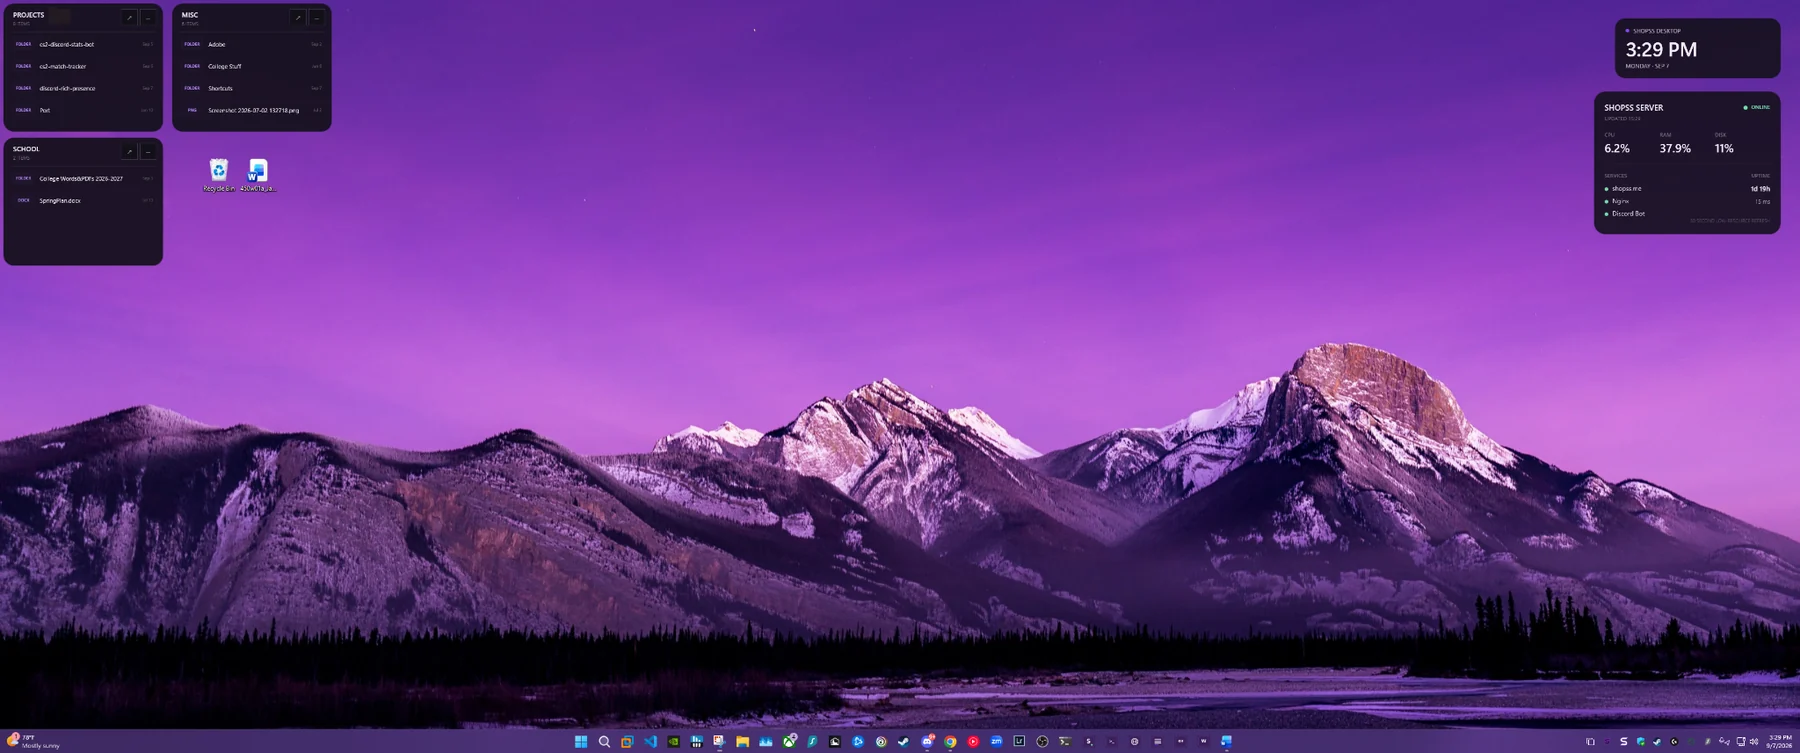
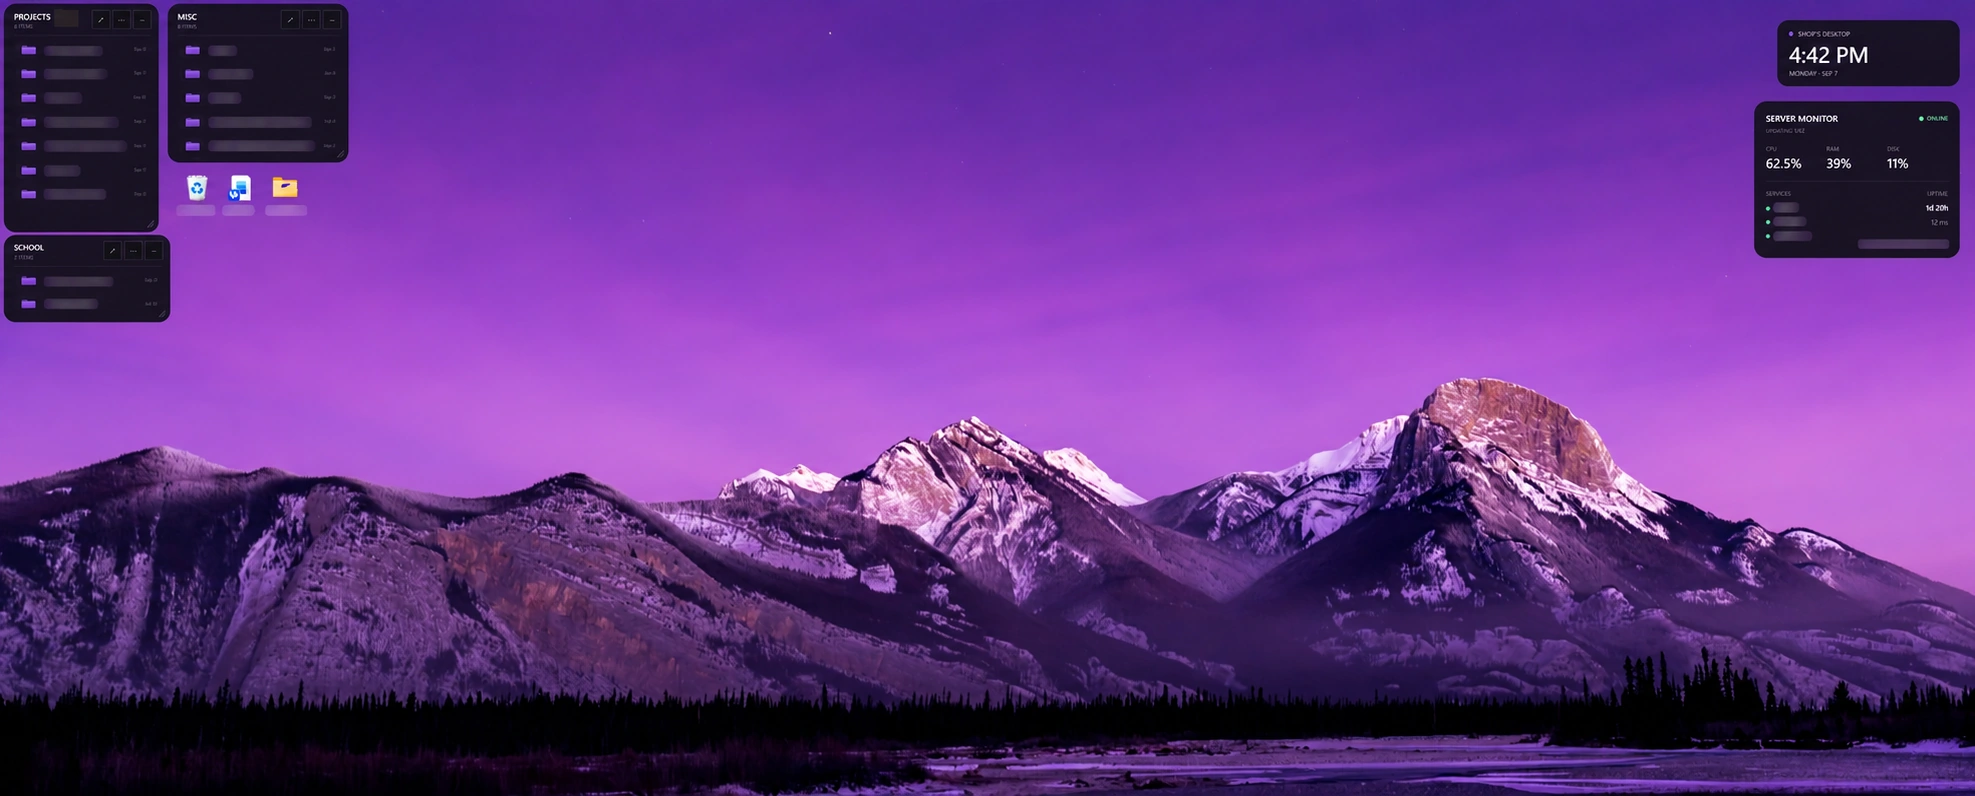
Update SHOPSS Desktop preview and remove Steam link

diff --git a/projects/shopss-desktop.html b/projects/shopss-desktop.html
@@ -49,10 +49,10 @@
 
       <section class="project-media wide">
         <h2>Desktop preview</h2>
-        <p class="lead-note">The personal setup uses organizer zones on the left and lightweight live widgets on the right.</p>
+        <p class="lead-note">Organizer zones stay grouped on the left while lightweight clock and server widgets sit on the right.</p>
         <div class="preview-card">
           <img src="../assets/projects/shopss-desktop.webp" alt="SHOPSS Desktop organizer zones and widgets on a Windows desktop">
-          <small>Organizer zones, clock widget, and live server widget running together on an ultrawide desktop.</small>
+          <small>SHOPSS Desktop running across an ultrawide Windows setup with file names lightly obscured for privacy.</small>
         </div>
       </section>
     </section>

diff --git a/index.html b/index.html
@@ -243,10 +243,6 @@
       </div>
 
       <div class="link-list">
-        <a href="https://steamcommunity.com/id/Shopss" target="_blank" rel="noreferrer">
-          <span>Steam</span>
-          <span>↗</span>
-        </a>
         <a href="https://github.com/OP2U" target="_blank" rel="noreferrer">
           <span>GitHub</span>
           <span>↗</span>

diff --git a/README.md b/README.md
@@ -15,3 +15,9 @@ Personal site for https://shopss.me.
 The production site is automatically deployed from the `main` branch of:
 
 https://github.com/OP2U/shopss-site
+
+
+## v2.7
+
+- Replaced the SHOPSS Desktop project preview with the latest ultrawide screenshot.
+- Removed the Steam link from the homepage.
